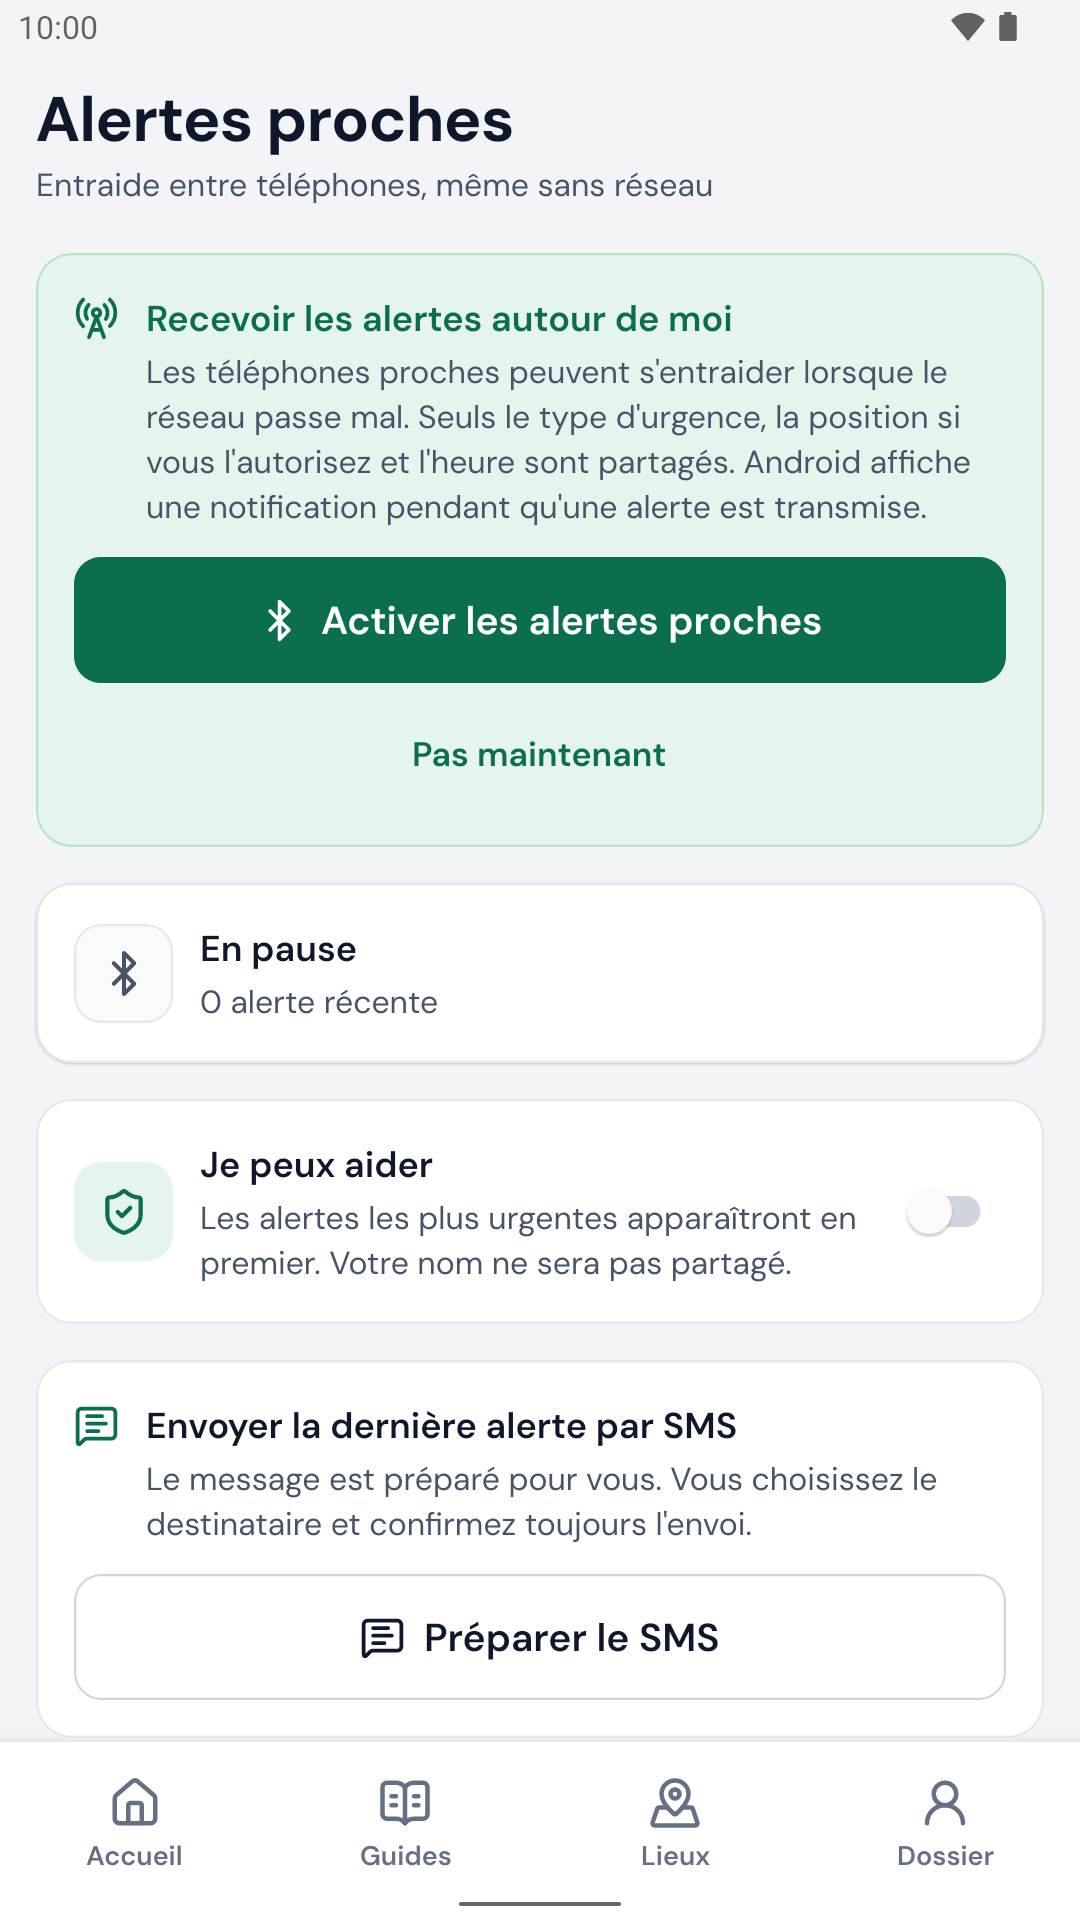
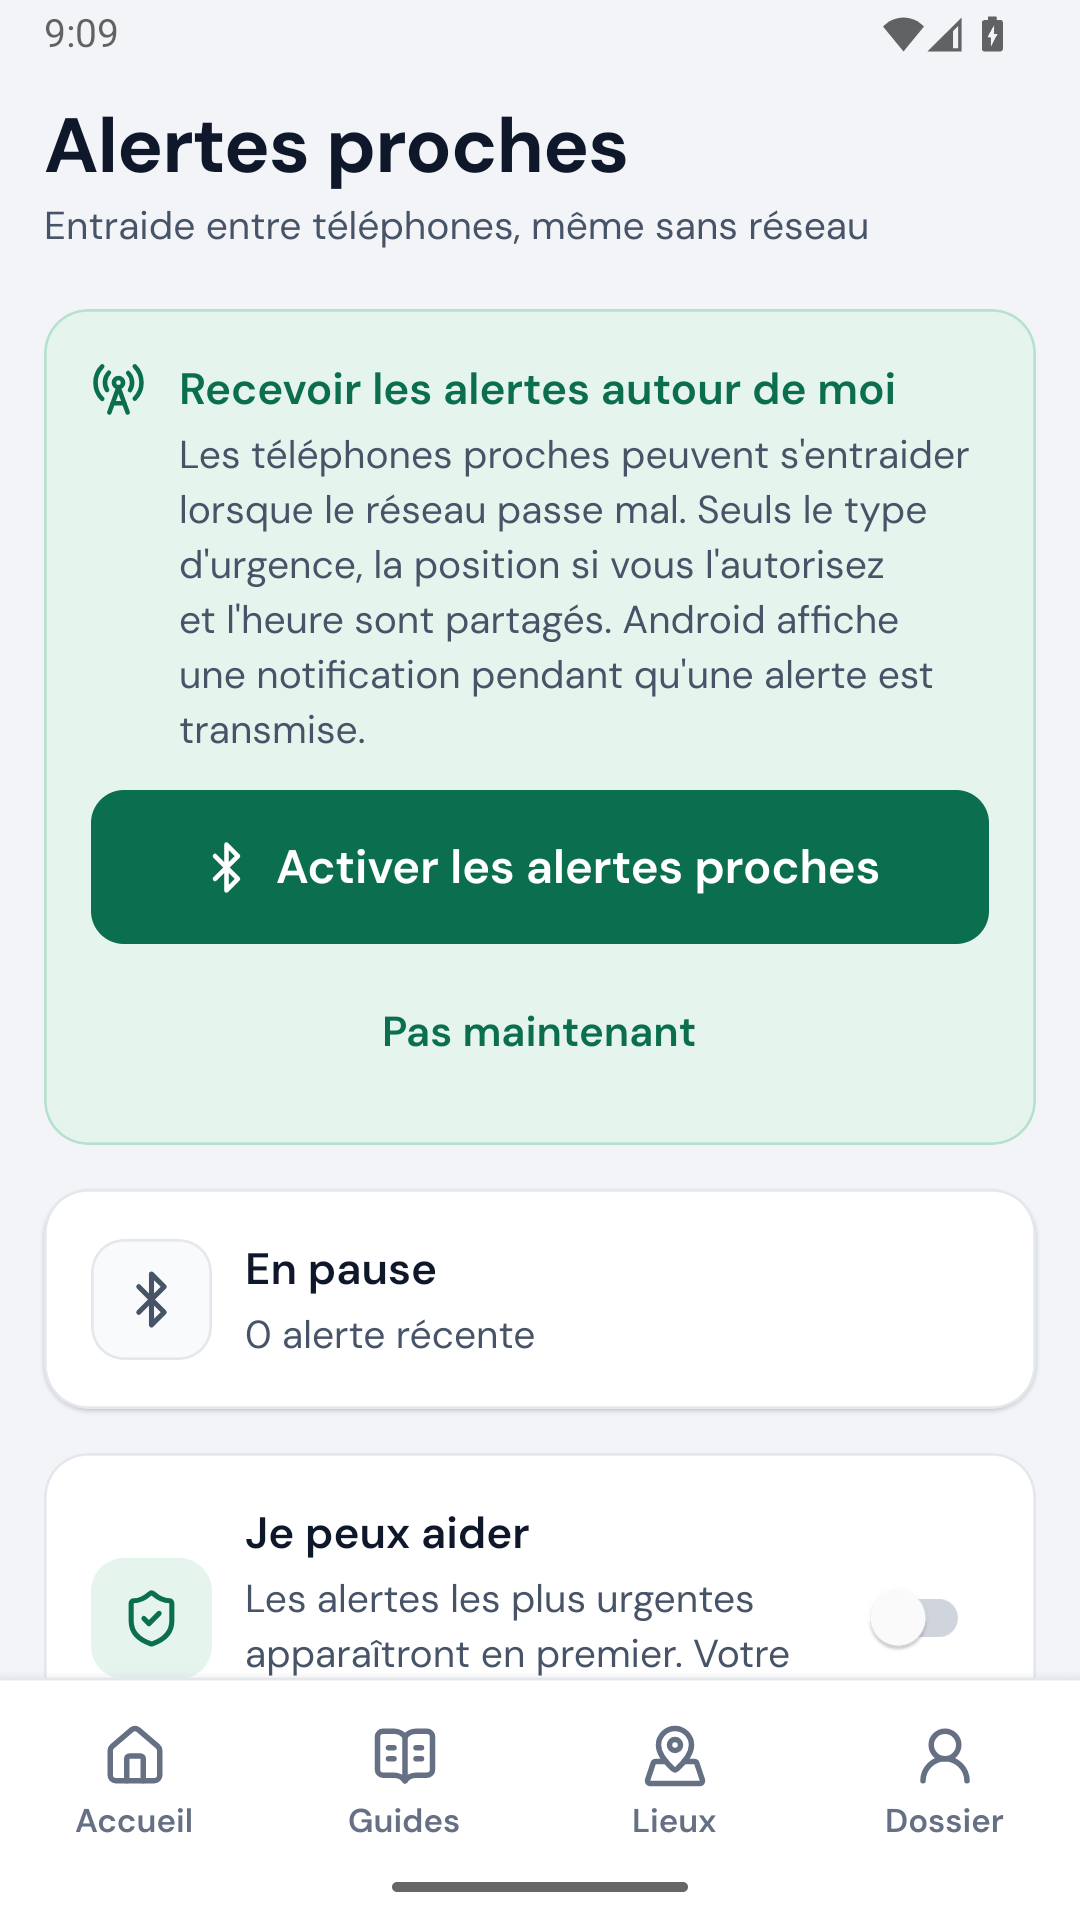
Documente la recette native de Nafalan et renouvelle les captures

diff --git a/docs/RELEASE_1.0.2.md b/docs/RELEASE_1.0.2.md
@@ -1,15 +1,17 @@
 # Nafalan 1.0.2 — fiabilité et réactivité
 
-Rapport du **11 novembre 2026**. Candidat de recette (staging) préparé sur
+Rapport du **11 novembre 2026**. Candidat de recette (staging) sur
 `fix/reliability-performance-20261111`, à partir de `445b140`.
-La configuration courante porte la version **1.0.2**, code Android **8**.
-Ces valeurs décrivent la source préparée ; elles ne certifient pas encore un
-artefact de production signé ni son contenu final.
+L'**APK final de recette release arm64 1.0.2 (8)** a été compilé depuis
+`5e548d12ee274552664bbe0881d5583d91f0ad4b` et signé avec la clé upload existante.
 
-**Statut de ce candidat : non publié, non soumis aux stores.** La compilation
-et la recette Android sont en cours et leurs résultats doivent compléter ce
-rapport. Aucun résultat de la version 1.0.1 (7) n'est présenté comme une
-validation de 1.0.2. Les rapports [1.0.1](RELEASE_1.0.1.md) et
+**Statut : APK de recette testé, non publié, non soumis aux stores, branche non
+fusionnée. Aucun AAB de production ni upload Play pour ce candidat.** La recette
+Android API 36, y compris le parcours d'effacement et la disparition de l'ancien
+dossier, a réussi. Les huit captures de fiche ont été renouvelées et contrôlées
+depuis cet APK (1080 × 1920, RGB, aucune donnée personnelle).
+Aucun résultat de la version 1.0.1 (7) n'est présenté comme une validation de
+1.0.2. Les rapports [1.0.1](RELEASE_1.0.1.md) et
 [1.0.1 (7)](RELEASE_1.0.1_7.md) restent inchangés.
 
 ## Nom et compatibilité des données
@@ -25,8 +27,12 @@ Expo `sos-securite-mali` et le schéma de liens `sosmali`. Le nom de la base
 `sos_mali_database_key_v1`, l'alias de signature Android
 `sos_mali_mesh_origin_signing_v1` et le format d'export `sos-mali-medical-v2`
 restent identiques. Le renommage ne prévoit ni effacement des dossiers, ni
-rotation de ces clés. Le certificat de signature de l'artefact final et une
-mise à jour conservant les données doivent encore être contrôlés séparément.
+rotation de ces clés. Le certificat de l'APK de recette correspond à la clé
+upload existante. Les mises à jour par `install -r`, sans remise à zéro des données,
+ont conservé le profil fictif **Audit Fictif** et son contact depuis le code 7.
+Le profil fictif a également été conservé lors de la mise à jour du correctif
+de navigation `829539d`, avant sa recette d'effacement. Le dernier APK `5e548d1`
+ajoute uniquement l'ajustement visuel des filtres des lieux.
 
 La migration SQLite 2 → 3 ajoute des index et applique la rétention des données
 SOS/mesh. Les tests vérifient la conservation des profils, contacts et anciens
@@ -45,31 +51,53 @@ maximum), les identifiants de messages et les quotas d'origine.
 | Météo | Une écriture du cache pouvait retarder une réponse réseau valide ; anciennes écritures/réponses susceptibles de revenir tard | Réponse valide rendue sans attendre l'écriture facultative, ordre des écritures conservé, invalidation des requêtes et écritures lors d'un effacement |
 | Carte hors ligne | Ancien flag « prête » fiable à tort, création d'autres packs après interruption, listeners conservés | Réconciliation avec l'inventaire natif, identité du pack persistée, état prêt uniquement pour un pack complet, reprise du pack existant et nettoyage des listeners |
 | Téléchargement de carte | Une route toujours focalisée pouvait continuer à télécharger après Home/verrouillage Android | Pause à `inactive`/`background`, départ refusé hors premier plan, reprise manuelle conservant le même pack |
+| Filtres des lieux | « Pharmacies » coupé sur écran étroit | Libellés sur une ligne avec ajustement borné ; intitulé accessible conservé |
 | Réseau cartographique | Configuration des en-têtes MapLibre liée au chargement du layout | Initialisation idempotente appelée avant carte et téléchargement |
 | Relais BLE | Sessions de scan/lecture pouvant continuer après arrêt ou accepter des callbacks d'une ancienne session | Annulation par session, délais de lecture GATT et de nettoyage, limites de concurrence et du cache de pairs |
+| Diffusion BLE native / FGS | Annulation tardive ou arrêt d'une ancienne requête pouvant interférer avec une nouvelle session | Générations et identifiants de requête isolés, promesse terminée à l'annulation, confirmation du service de premier plan et nettoyage après échec, timeout ou arrêt |
 | Doublons et quotas mesh | Lectures puis écritures séparées permettant à plusieurs messages concurrents de revendiquer le même relais/quota | Réservation du message, quota et historique atomiques ; confirmation de relais idempotente |
-| Écritures SQLCipher | Transactions concurrentes et nouvelle connexion pouvant être ouverte sans sa clé | File par base, connexion d'écriture dédiée chiffrée avant sa première requête, rollback et libération après inactivité |
-| Effacement | Travaux GPS, réseau ou mesh susceptibles d'écrire après suppression ; ancien dossier pouvant rester dans la pile | Arrêt/attente des travaux avant effacement SQL, purge des copies privées médicales, position mémoire remise à zéro et réinitialisation de la navigation |
+| Écritures SQLCipher | Transactions concurrentes à sérialiser ; nécessité d'initialiser la nouvelle connexion d'écriture dédiée avec sa clé | File par base, connexion dédiée chiffrée avant sa première requête, rollback et libération après inactivité ; ceci ne démontre pas un ancien défaut de clé en production |
+| Effacement | Travaux susceptibles d'écrire après suppression ; ancien dossier restant dans la pile et reset visant le conteneur Expo externe | Arrêt/attente des travaux avant effacement SQL, purge des copies privées médicales, position mémoire remise à zéro et `useNavigation().reset` sur le Stack utilisateur ; recette finale réussie |
 
-Les imports directs des familles de police et des icônes réduisent le travail
-chargé au démarrage. L'initialisation du stockage et celle de l'affichage peuvent
-progresser en parallèle. Un jalon Android local de contenu affiché a été ajouté ;
-il ne remplace pas une mesure contrôlée et ne doit pas être confondu avec
-l'affichage initial d'une Activity vide. Aucun gain chiffré de temps, mémoire ou
-batterie n'est revendiqué ici.
+Les imports directs des familles de police et des icônes et l'initialisation
+différée de MapLibre accompagnent une **réduction mesurée des bundles**. Cette
+mesure n'isole pas le gain de chaque modification et ne prouve pas un démarrage
+plus rapide. L'initialisation du stockage et de l'affichage peuvent progresser
+en parallèle ; un jalon Android de contenu affiché est ajouté, sans confondre
+une Activity vide ou le chargement du dossier avec le contenu prêt.
+
+## APK final de recette et tailles mesurées
+
+| Élément | Référence code 7 | Candidat code 8 |
+| --- | --- | --- |
+| Bytecode Hermes | 5 338 404 octets | 4 128 020 octets (**−22,67 %**) |
+| Export JavaScript sans bytecode (comparaison de diagnostic) | 4 967 910 octets | 3 513 967 octets (**−29,27 %**) |
+
+L'APK arm64 de recette mesure **70 605 798 octets**. Aucune comparaison de taille
+d'APK équivalents ni mesure de vitesse, mémoire ou batterie sur téléphone physique
+n'a été réalisée. Les pourcentages ci-dessus portent uniquement sur les bundles.
+
+```text
+APK SHA-256 : d0447f2fb15d7b4697e4ac017ef1bb9ff39889c8b07e03d2f5f693e8a380350a
+Certificat SHA-256 : 3544b2ddedf591b976249aced85b9a50be31f4efeb5603bdda1e8372ffc05de1
+```
 
 ## Vérifications exécutées
 
 | Vérification | Résultat observé |
 | --- | --- |
-| `npm test`, 11 novembre à 08:25 UTC | **188 tests réussis sur 22 fichiers**, aucune suite ignorée |
-| `npm run typecheck` après le correctif AppState | Réussi |
+| `npm test`, dernier passage le 11 novembre à 09:09 UTC | **188 tests réussis sur 22 fichiers**, aucune suite ignorée |
+| `npm run typecheck` sur la source finale | Réussi |
+| Compilation Gradle de l'APK final | **BUILD SUCCESSFUL**, 41 secondes |
 | Tests carte hors ligne ciblés | **20 tests réussis**, incluant arrière-plan, création native tardive, reprise et nettoyage |
 | SQLite réel de test | `node:sqlite`, données synthétiques en mémoire : concurrence, quotas, rollback, migration 2 → 3, rétention et effacement |
+| Tests JVM natifs exécutés avec Gradle | **7 tests réussis** du modèle de session BLE ; aucune preuve de transport entre téléphones |
 
-Les anciens comptes intermédiaires de 181 ou 184 tests ne décrivent pas le
-dernier passage ci-dessus. Le runtime Node expose `node:sqlite` ; la suite n'a
-donc pas été ignorée. Les tests adaptent les appels Expo et simulent la création
+Les 188 tests et TypeScript ont été relancés avec succès sur la source finale.
+Les 7 tests JVM ont été exécutés avant les derniers ajustements TypeScript de
+navigation et de libellé ; le code natif BLE n’a pas changé depuis ce passage.
+Le runtime Node expose `node:sqlite` ; la suite n'a donc pas été ignorée.
+Les tests adaptent les appels Expo et simulent la création
 des connexions natives ainsi que `PRAGMA cipher_version`. Leur portée exacte
 est documentée dans [src/db/__tests__/README.md](../src/db/__tests__/README.md).
 
@@ -77,34 +105,65 @@ Les tests GPS, HTTP, AppState et BLE utilisent des doubles contrôlés. Ils
 vérifient les transitions et les interruptions, pas la précision radio réelle,
 la portée Bluetooth ou les performances d'un téléphone physique.
 
-## Validation native à compléter
+## Recette native Android API 36
 
-Les résultats d'APK, de signature, de migration chiffrée et de parcours Android
-seront ajoutés après la recette du candidat final. À ce stade, ce rapport ne
-confirme pas :
+Essais réalisés sur les APK code 8 successifs de cette branche, sur un
+**émulateur dédié**, avec des données fictives et sans données personnelles.
+Les tests du dossier, de la carte et de la météo ont porté sur `4efb453`,
+l'effacement corrigé sur `829539d`, puis les captures, les filtres et l'absence
+d'erreur sur l'APK final `5e548d1`. Les deux derniers ajustements ne changent ni
+le stockage ni les services GPS, météo ou BLE :
 
-- une migration SQLCipher Android 2 → 3 sur installation de recette existante,
-  avec profil et contacts fictifs conservés après mise à jour puis redémarrage ;
-- la bonne initialisation de chaque connexion native chiffrée et les écritures
-  simultanées sans erreur de verrou ou de transaction imbriquée sur Android ;
-- la pause réelle du téléchargement après Home/verrouillage et la reprise sur
-  l'appareil de recette ;
-- le transport BLE sur plusieurs téléphones physiques, ses restrictions en
-  arrière-plan, sa portée ou son coût batterie ;
-- la compatibilité iOS de cette livraison, un appel/SMS réel ou une validation
-  clinique des contenus.
+| Parcours | Résultat observé |
+| --- | --- |
+| Mise à jour code 7 → 8, puis correctif de navigation | `install -r` sans reset ; profil Audit Fictif et contact conservés pendant la recette, profil conservé avant l'effacement final |
+| Contact nommé avec téléphone partiel `1` | Aucun crash ; Enregistrer bloque avec « Vérifiez le dossier » |
+| Contact corrigé en `22300000001` | Enregistrement réussi et conservation après redémarrage du processus |
+| Carte hors ligne puis Home Android | Téléchargement mis en pause, bouton Reprendre affiché ; reprise du pack, progression de 16 % à 20 % |
+| Météo en ligne puis réseau coupé | 29° en ligne, puis « Dernière prévision disponible » avec l'âge du cache hors ligne |
+| Effacement après double confirmation | Retour au premier démarrage ; Retour Android puis réouverture restent au premier démarrage ; après passage sans dossier, l'onglet Dossier ne contient ni Audit Fictif ni Contact Fictif |
+| Erreurs d'exécution | Aucun crash applicatif ni ANR observé pendant cette session API 36 |
+
+Cette mise à jour valide les parcours profil/contacts observés sur l'installation
+Android de recette utilisant SQLCipher. Elle ne remplace pas un test de charge
+des écritures concurrentes natives ni une vérification exhaustive des connexions
+chiffrées. La pause a été observée après Home ; le verrouillage n'a pas été testé
+séparément. Aucun transport BLE sur téléphones physiques, essai iOS, appel/SMS
+réel ou visa médical/clinique n'est validé par cette intervention.
+Le parcours d'effacement corrigé vérifie la navigation et l'absence du profil et du
+contact précédents dans l'application ; il ne constitue pas un stress test de
+concurrence SQL. Les preuves natives sont conservées dans les séries de recette
+`final-after-delete`, `final-back-reopen` et `final-empty-data`.
 
 L'**ANR historique du code 7 sur l'émulateur API 32**, observé le 10 novembre à
 16:46:29 UTC, reste de cause indéterminée. Les corrections de cette livraison
-ne prouvent pas qu'il est résolu. Le constat sans ANR d'une exécution API 36 de
-la version précédente ne permet ni de l'expliquer ni d'exclure une régression
-dans le nouveau candidat. Voir les preuves et limites du
+ne prouvent pas qu'il est résolu. L'absence d'ANR pendant la session API 36 du
+candidat ne permet ni de l'expliquer ni de garantir l'absence globale de
+régression. Voir les preuves et limites du
 [rapport 1.0.1 (7)](RELEASE_1.0.1_7.md#incidents-et-limites-de-la-validation).
+
+## Points restant hors de cette correction
+
+Le triage `npm audit` du 11 novembre signale 9 nœuds de dépendances (4 high,
+5 moderate), correspondant à 6 avis distincts. Une partie concerne l'outillage
+Metro/fingerprint ; une dépendance de décodage d'URI existe aussi dans le graphe
+runtime, sans chemin d'exploitation démontré dans le parseur standard Expo.
+Aucune mise à jour forcée du SDK ou du lockfile n'a été appliquée ici. Une
+maintenance compatible des dépendances reste à réaliser séparément ; ces
+signalements ne constituent pas une cause démontrée des lenteurs ordinaires.
 
 ## Publication
 
 La mise à jour du nom dans les écrans et la préparation de textes de fiche ne
 constituent ni une publication, ni un examen Google/Apple du candidat 1.0.2.
+Huit captures natives de l'APK final de recette ont été renouvelées et contrôlées
+visuellement, sans données personnelles, puis encodées en RGB sans modifier
+leurs pixels opaques. Leurs empreintes sont dans `store-assets/CHECKSUMS.sha256`. La vidéo FGS historique
+du code 5 est conservée et ne prouve pas le comportement du nouveau build.
+Le HTML de confidentialité Nafalan est préparé localement et **non déployé**.
 Le statut éventuel d'une version précédente reste distinct. Le reçu d'un envoi
 et l'état réellement affiché par le store devront être consignés ici avant
 de revendiquer une soumission ou une disponibilité publique.
+
+Reçu vérifiable de l'artefact et des contrôles :
+[validation/nafalan-1.0.2-8.json](validation/nafalan-1.0.2-8.json).

diff --git a/store-assets/README.md b/store-assets/README.md
@@ -1,18 +1,34 @@
-# Assets stores — SOS Sécurité Mali
+# Assets stores — Nafalan
 
 Éditeur : **SahelPay Technologies** · Abdoulaye NIANGALY  
 App **gratuite** · Android + iOS · `ml.sossecurite.app`
+
+État du **11 novembre 2026** : APK final de recette **1.0.2 (8)** compilé et testé,
+non publié et non soumis aux stores. Les parcours Android API 36, dont
+l'effacement et l'absence de l'ancien dossier, ont réussi. Les huit captures
+natives ont été renouvelées et contrôlées visuellement.
+Le nom visible devient Nafalan ; les identifiants
+techniques et les chemins compatibles gardent leur valeur historique.
+Voir [le rapport 1.0.2](../docs/RELEASE_1.0.2.md) et
+[la décision de nommage](../docs/NAMING_NAFALAN.md).
 
 ## Google Play
 
 - `icon-512.png` : icône 512 × 512
 - `feature-graphic-1024x500.png` : visuel 1024 × 500
-- `screenshots/` : sept captures natives de l’APK signé code 5, Android 12L, PNG RGB 1080 × 1920, dont la narration française en lecture
-- `privacy-policy.html` : **publiée et vérifiée le 6 novembre 2026** (coordonnées SahelPay intégrées)
+- `screenshots/` : huit captures natives de l'APK final de recette 1.0.2 (8),
+  Android API 36, PNG RGB 1080 × 1920, sans données personnelles. Le retrait du
+  canal alpha entièrement opaque ne modifie aucun pixel visible.
+- `privacy-policy.html` : version Nafalan préparée localement, **non déployée**.
+  La publication et la vérification du 6 novembre concernaient la version
+  historique, pas le contenu courant de ce fichier.
 
-URL publique de la politique :
+Adresse publique utilisée historiquement pour la politique :
 
 `https://www.sahelpay.ml/apps/sos-securite-mali/privacy`
+
+Son contenu en ligne n'a pas été revalidé comme version Nafalan dans cette
+intervention. La présence du fichier local ne prouve pas son déploiement.
 
 Contrôle :
 
@@ -34,8 +50,13 @@ npm run verify:ios-assets
 
 ## Vidéo Foreground Service (Android)
 
-Obligatoire pour le service BLE `connectedDevice` :  
-`docs/FOREGROUND_SERVICE_DECLARATION.md` → déposer dans `video/` après test GATT réussi.
+`video/foreground-service-connected-device.mp4` est conservée comme preuve
+historique du **6 novembre 2026**, APK **1.0.0 (5)** sur TECNO KN4 / Android 16.
+Elle ne valide pas les changements BLE/FGS du build 1.0.2 (8). Aucun relais BLE
+entre téléphones physiques n'a été testé pour ce candidat.
+
+La déclaration du service `connectedDevice` et les conditions de recette restent
+documentées dans `docs/FOREGROUND_SERVICE_DECLARATION.md` et `video/README.md`.
 
 ## Support
 
@@ -43,6 +64,6 @@ Obligatoire pour le service BLE `connectedDevice` :
 - privacy@sahelpay.ml
 - https://sahelpay.ml
 
-État du 6 novembre 2026 : fiche Play complète, release 1.0.0 (5) active en test
-interne, vidéo native validée et déclaration FGS enregistrée. `verify:play-submission`
-et le préflight final passent. La promotion publique reste réservée au propriétaire.
+Les résultats historiques des scripts et de la vidéo ne prouvent pas une
+publication du candidat. Aucun AAB de production, upload Play ou fusion de la
+branche 1.0.2 n'a été effectué à ce stade.
